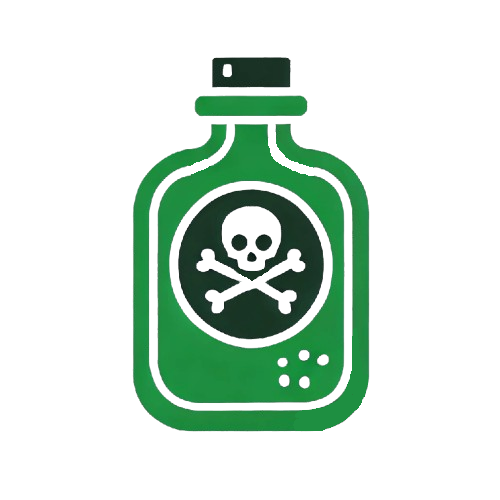
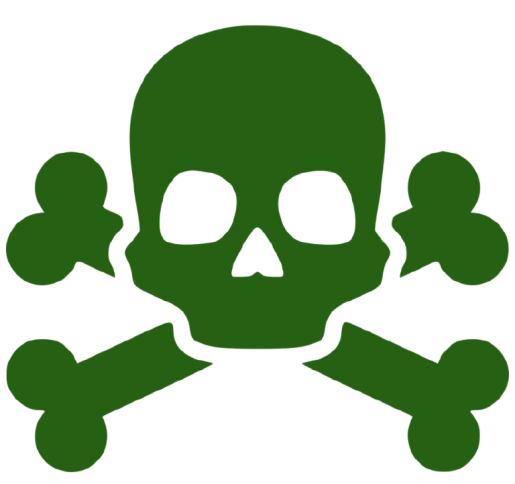
Some changes to Effect displaying

diff --git a/src/main/java/be/ugent/objprog/minionwars/views/MinionsTableView.java b/src/main/java/be/ugent/objprog/minionwars/views/MinionsTableView.java
@@ -9,6 +9,7 @@ import javafx.beans.property.SimpleStringProperty;
 import javafx.beans.value.ChangeListener;
 import javafx.geometry.Insets;
 import javafx.geometry.Pos;
+import javafx.scene.control.ContentDisplay;
 import javafx.scene.control.Label;
 import javafx.scene.control.TableCell;
 import javafx.scene.control.TableColumn;
@@ -23,11 +24,14 @@ import javafx.scene.shape.Circle;
 import javafx.scene.text.Font;
 import javafx.scene.text.FontWeight;
 
+import java.util.Locale;
 import java.util.Objects;
+import java.util.ResourceBundle;
 
 public class MinionsTableView extends TableView<Minion> {
-    public MinionsTableView(MinionModel model) {
+    public MinionsTableView(MinionModel model, Locale locale) {
         super();
+        ResourceBundle bundle = ResourceBundle.getBundle("be.ugent.objprog.minionwars.lang.messages", locale);
         setEditable(false);
         setTableMenuButtonVisible(false);
         System.out.println(model.getMinions());
@@ -149,7 +153,7 @@ public class MinionsTableView extends TableView<Minion> {
                     );
 
                     // Effect symbol
-                    Label effectLabel = new Label();
+                    Label effectLabel = new Label(bundle.getString("gameScreen.minionTableView.effectLabel"));
                     MinionEffect minionEffect = minion.getEffect();
                     ImageView effectImageView;
                     if (minionEffect != null) {
@@ -162,6 +166,10 @@ public class MinionsTableView extends TableView<Minion> {
                     effectImageView.setPreserveRatio(true);
                     effectImageView.fitHeightProperty().bind(getTableColumn().widthProperty().multiply(iconScale));
                     effectImageView.fitWidthProperty().bind(effectImageView.fitHeightProperty());
+                    effectLabel.setContentDisplay(ContentDisplay.RIGHT);
+                    effectLabel.styleProperty().bind(
+                            Bindings.format("-fx-font-size: %.2fpx;", getTableColumn().widthProperty().multiply(fontScale))
+                    );
 
                     GridPane statsGrid = new GridPane(5,5);
                     statsGrid.setAlignment(Pos.CENTER_LEFT);
@@ -171,6 +179,7 @@ public class MinionsTableView extends TableView<Minion> {
                     statsGrid.add(rangeLabel, 1, 1);
                     if (effectImageView.getImage() != null) {
                         statsGrid.add(effectLabel, 0, 2);
+                        GridPane.setColumnSpan(effectLabel,2);
                     }
 
                     setGraphic(statsGrid);

diff --git a/src/main/java/be/ugent/objprog/minionwars/views/GameView.java b/src/main/java/be/ugent/objprog/minionwars/views/GameView.java
@@ -66,7 +66,7 @@ public class GameView {
         coinIcon.setFitWidth(10);
 
 
-        menuTable = new MinionsTableView(minionModel);
+        menuTable = new MinionsTableView(minionModel,locale);
 
         endTurnButton = new Button(bundle.getString("gameScreen.endTurnButton")); // TODO
         centerBoardButton = new Button(bundle.getString("gameScreen.centerBoard"));
